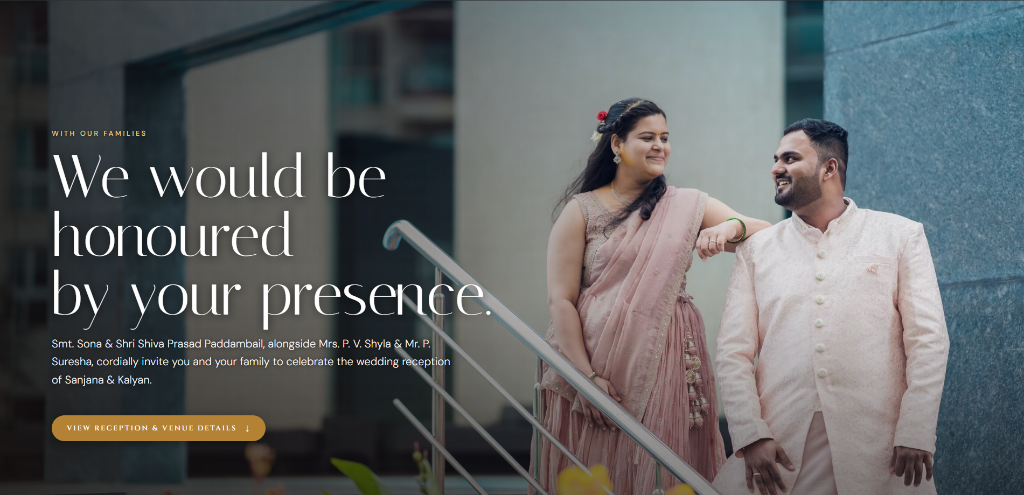
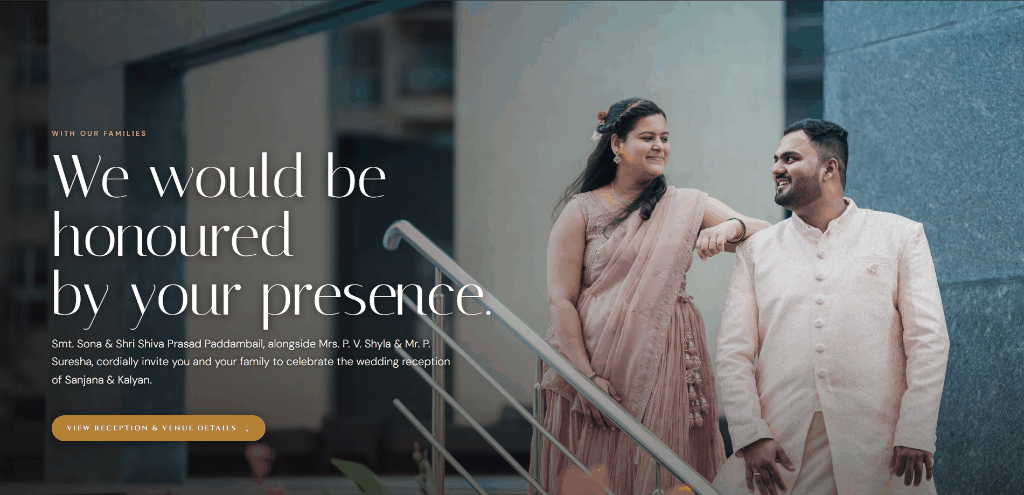
feat(seo): configure absolute Render URLs and optimize og-preview image for WhatsApp sharing

diff --git a/index.html b/index.html
@@ -14,16 +14,18 @@
   <!-- Favicon & Icons -->
   <link rel="icon" type="image/png" href="images/favicon.png" />
   <link rel="apple-touch-icon" href="images/favicon.png" />
-  <link rel="image_src" href="images/og-preview.png" />
+  <link rel="canonical" href="https://kalyan-weds-sanjana-p-weeding-web.onrender.com/" />
+  <link rel="image_src" href="https://kalyan-weds-sanjana-p-weeding-web.onrender.com/images/og-preview.png" />
 
   <!-- Open Graph / Facebook / WhatsApp / iMessage -->
   <meta property="og:type" content="website" />
-  <meta property="og:site_name" content="Kalyan & Sanjana Wedding Celebration" />
+  <meta property="og:site_name" content="Kalyan &amp; Sanjana Wedding Celebration" />
+  <meta property="og:url" content="https://kalyan-weds-sanjana-p-weeding-web.onrender.com/" />
   <meta property="og:title" content="Kalyan Suresh Weds Sanjana Paddambail | Wedding Invitation" />
   <meta property="og:description"
-    content="We would be honoured by your presence. Cordially inviting you and your family to celebrate the wedding reception of Sanjana & Kalyan on Saturday, 31st October 2026." />
-  <meta property="og:image" content="images/og-preview.png" />
-  <meta property="og:image:secure_url" content="images/og-preview.png" />
+    content="We would be honoured by your presence. Cordially inviting you and your family to celebrate the wedding reception of Sanjana &amp; Kalyan on Saturday, 31st October 2026." />
+  <meta property="og:image" content="https://kalyan-weds-sanjana-p-weeding-web.onrender.com/images/og-preview.png" />
+  <meta property="og:image:secure_url" content="https://kalyan-weds-sanjana-p-weeding-web.onrender.com/images/og-preview.png" />
   <meta property="og:image:type" content="image/png" />
   <meta property="og:image:width" content="1024" />
   <meta property="og:image:height" content="495" />
@@ -32,10 +34,11 @@
 
   <!-- Twitter Cards -->
   <meta name="twitter:card" content="summary_large_image" />
+  <meta name="twitter:url" content="https://kalyan-weds-sanjana-p-weeding-web.onrender.com/" />
   <meta name="twitter:title" content="Kalyan Suresh Weds Sanjana Paddambail | Wedding Invitation" />
   <meta name="twitter:description"
-    content="We would be honoured by your presence. Cordially inviting you and your family to celebrate the wedding reception of Sanjana & Kalyan on Saturday, 31st October 2026." />
-  <meta name="twitter:image" content="images/og-preview.png" />
+    content="We would be honoured by your presence. Cordially inviting you and your family to celebrate the wedding reception of Sanjana &amp; Kalyan on Saturday, 31st October 2026." />
+  <meta name="twitter:image" content="https://kalyan-weds-sanjana-p-weeding-web.onrender.com/images/og-preview.png" />
   <meta name="twitter:image:alt"
     content="Kalyan Suresh Weds Sanjana Paddambail - We would be honoured by your presence" />
 
@@ -69,7 +72,7 @@
         }
       },
       "image": [
-        "images/og-preview.png"
+        "https://kalyan-weds-sanjana-p-weeding-web.onrender.com/images/og-preview.png"
       ],
       "description": "Wedding Reception celebration of Kalyan Suresh and Sanjana Paddambail with their families and friends.",
       "performer": [
@@ -109,7 +112,7 @@
         <span class="loader-name groom">Kalyan Suresh</span>
         <span class="loader-weds">
           <span class="weds-line"></span>
-          <em>Weds</em>
+          <em>And</em>
           <span class="weds-line"></span>
         </span>
         <span class="loader-name bride">Sanjana Paddambail</span>
@@ -154,7 +157,7 @@
           <span class="eyebrow wedding-eyebrow">THE WEDDING RECEPTION OF</span>
           <h1 aria-label="Kalyan Suresh Weds Sanjana Paddambail">
             <span class="partner-name">Kalyan Suresh</span>
-            <span class="weds"><span class="weds-line"></span><em>Weds</em><span class="weds-line"></span></span>
+            <span class="weds"><span class="weds-line"></span><em>And</em><span class="weds-line"></span></span>
             <span class="partner-name">Sanjana Paddambail</span>
           </h1>
           <img src="images/golden_divider.png" alt="" class="golden-flourish bottom-flourish" width="180" height="24"
